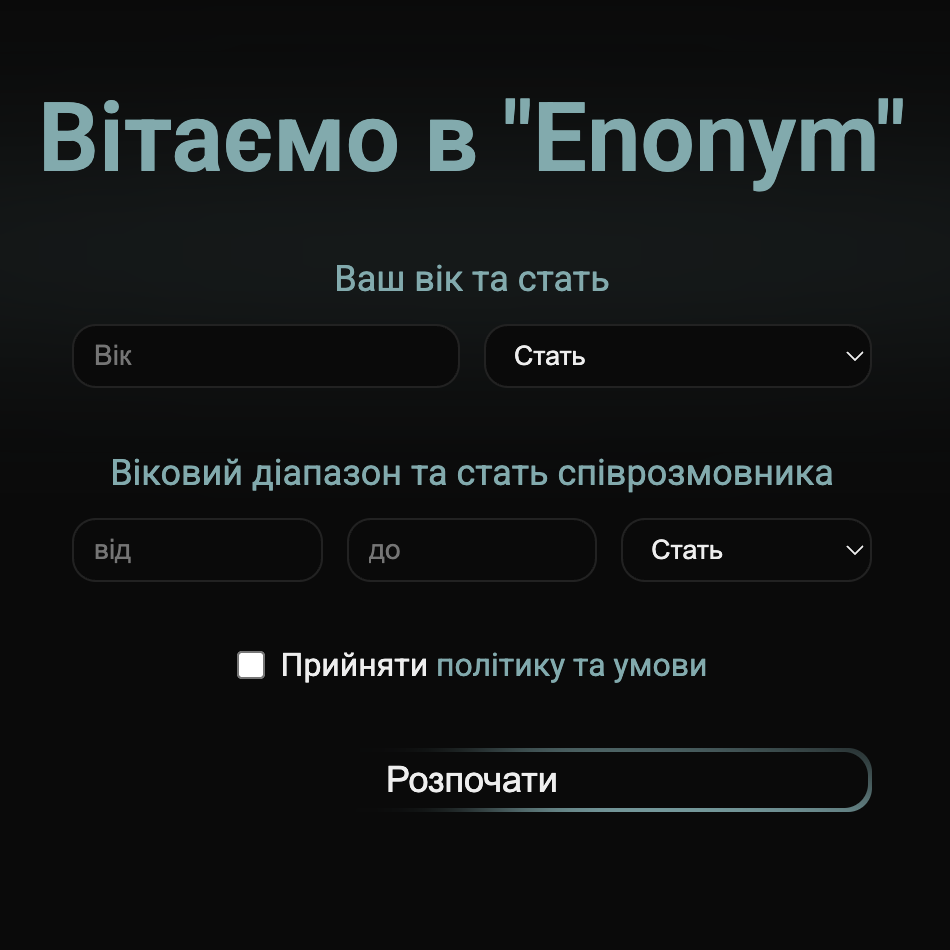
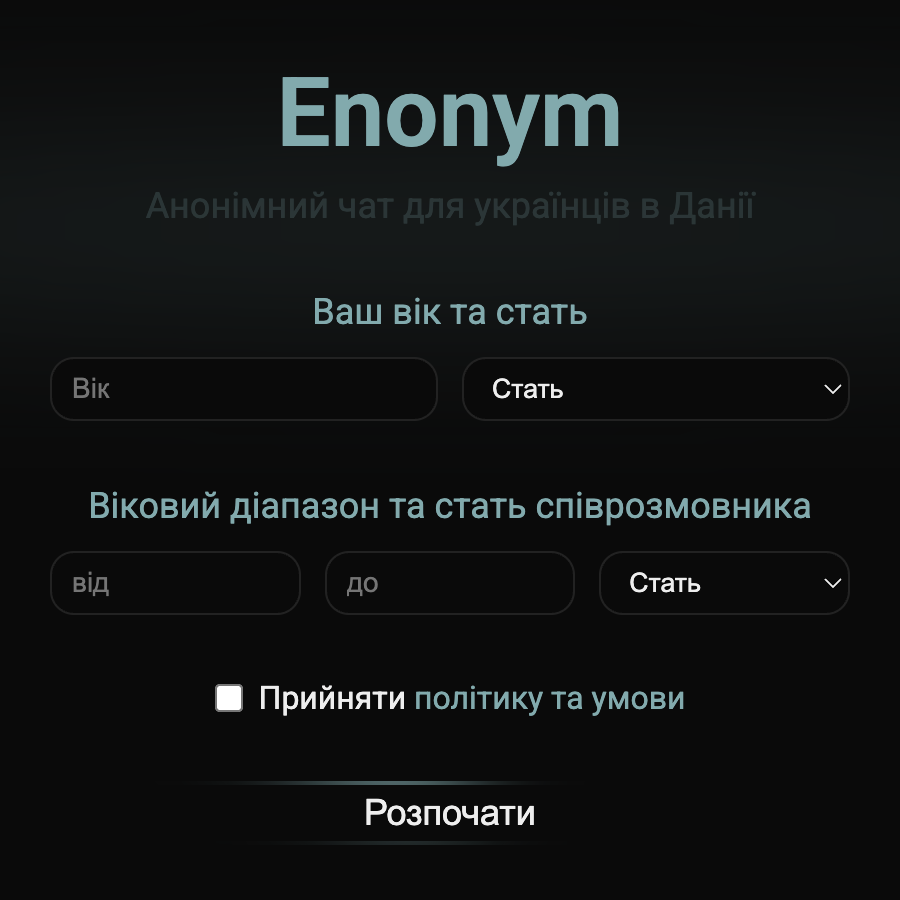
ui_fixes

diff --git a/src/app/layout.tsx b/src/app/layout.tsx
@@ -11,15 +11,15 @@ const roboto = Roboto({
 });
 
 export const metadata: Metadata = {
-    title: "Enonym - Анонімний чат для українців.",
-    description: "Enonym це чат для анонімного спілкування українців та нових знайомств.",
+    title: "Enonym - Анонімний чат для українців Данії.",
+    description: "Enonym це чат для анонімного спілкування українців та нових знайомств в Данії.",
     icons: {
         icon: '/icons/favicon_icon.svg',
         apple: '/icons/favicon_icon.svg',
     },
     openGraph: {
-        title: "Enonym - Анонімний чат для українців.",
-        description: "Заводь нові знайомства в Enonym ",
+        title: "Enonym - Анонімний чат для українців Данії.",
+        description: "Заводь нові знайомства з Enonym ",
         url: "https://enonym.com",
         type: "website",
         images: [

diff --git a/src/conponents/Footer/footerStyles.module.css b/src/conponents/Footer/footerStyles.module.css
@@ -1,32 +1,14 @@
 .footerContainer {
     display: flex;
-    justify-content: space-between;
+    justify-content: center;
     align-items: center;
     width: 100%;
     max-width: 900px;
     padding: 0 24px;
     height: 100%;
 
-    @media (max-width: 768px) {
-        flex-direction: column-reverse;
-        padding: 12px 0;
-    }
-
     .textContent {
         font-size: 14px;
         color: var(--dirty-blue);
-    }
-
-    .link {
-        text-decoration: none;
-        color: var(--dirty-blue);
-
-        &:hover {
-            text-decoration: underline;
-        }
-
-        &:active {
-            text-decoration: none;
-        }
     }
 }

diff --git a/src/app/page.tsx b/src/app/page.tsx
@@ -6,7 +6,8 @@ export default function Home() {
         <>
             <div className={styles.titleBlock}>
                 <div className={styles.titleUnderGlow}></div>
-                <h1 className={styles.title}>Вітаємо в "Enonym"</h1>
+                <h1 className={styles.title}>Enonym</h1>
+                <p className={styles.subtitle}>Анонімний чат для українців в Данії</p>
             </div>
             <MainElement/>
         </>

diff --git a/src/app/page.module.css b/src/app/page.module.css
@@ -30,10 +30,6 @@
     border-top: 1px solid var(--main-gray);
     height: 32px;
     z-index: 10;
-
-    @media (max-width: 768px) {
-        height: 64px;
-    }
 }
 
 .titleBlock {
@@ -49,6 +45,17 @@
 
     @media (max-width: 768px) {
         font-size: 32px;
+    }
+}
+
+.subtitle {
+    margin-top: 8px;
+    font-size: 18px;
+    text-align: center;
+    color: var(--transparent-blue);
+
+    @media (max-width: 768px) {
+        font-size: 16px;
     }
 }
 

diff --git a/src/conponents/Footer/Footer.tsx b/src/conponents/Footer/Footer.tsx
@@ -3,11 +3,6 @@ import styles from './footerStyles.module.css'
 const Footer = () => {
     return (
         <div className={styles.footerContainer}>
-            <a href="mailto:volodiayurovych@gmail.com"
-               className={`${styles.textContent} ${styles.link}`}
-            >
-                volodiayurovych@gmail.com
-            </a>
             <p className={styles.textContent}>
                 2025 Enonym. Copyright ©
             </p>
